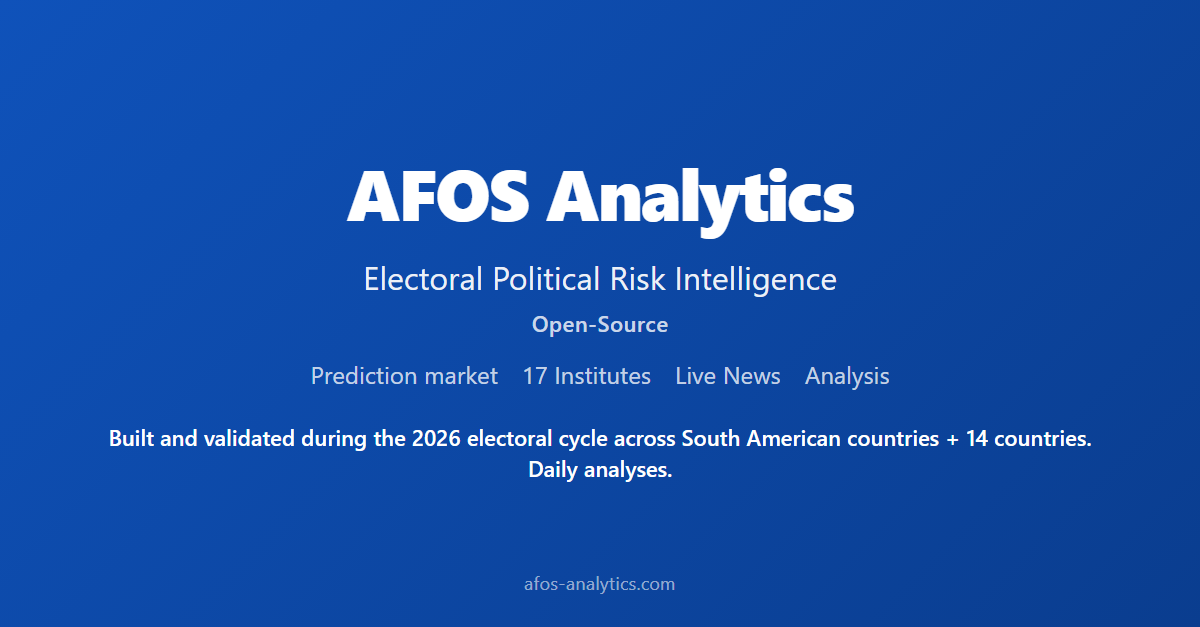
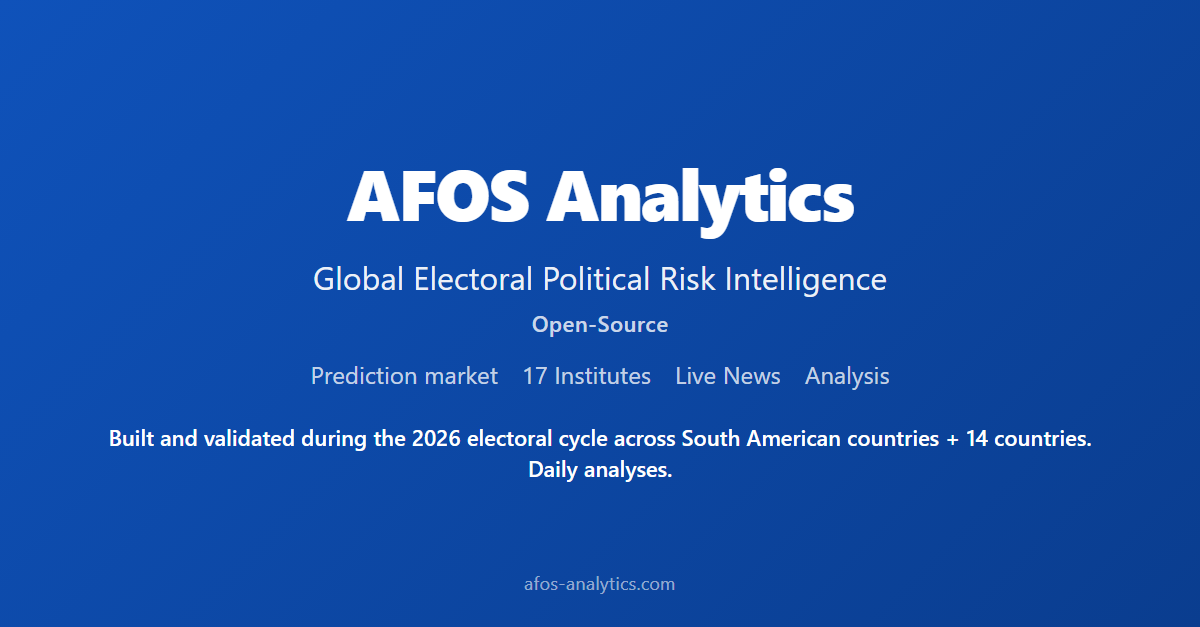
Positioning rebrand v2 — adicionar "Global" + DailyHeroCard tipografia
Tagline canônica atualizada em 17 arquivos:
- PT-BR: Inteligência de Risco Político Eleitoral Global — Open-Source
- EN: Global Electoral Political Risk Intelligence — Open-Source
- ES: Inteligencia Global de Riesgo Político Electoral — Open-Source

Arquivos: app/layout.tsx, app/page.tsx, app/[locale]/about/page.tsx,
app/[locale]/dashboard/layout.tsx, app/api/og/route.tsx, app/llms.txt/route.ts,
lib/seo/schema.ts, messages/{en,pt-BR,es}/{seo,common}.json,
app/error.tsx, app/not-found.tsx, app/welcome/WelcomeClient.tsx,
scripts/generate-linkedin-og.mjs.

LandingPageDual.tsx (hero hardcoded, fora do messages/) também atualizado
com "Global" nos 3 locales — caso descoberto após preview inicial que não
mostrava mudança no header da landing porque LandingPageDual mantém content
próprio fora das traduções.

LinkedIn OG PNGs regenerados (3 idiomas).

DailyHeroCard.tsx:
- Eyebrow "AFOS Daily" e data "DD de MÊS" agora mesmo tamanho (text-base md:text-lg)
- Eyebrow ganha font-extrabold pra peso visual igual ao da data
- Tracking ajustado de [0.18em] → [0.12em] (melhor legibilidade em tamanho maior)

Changed region(s): [[0.2467, 0.4242, 0.74, 0.4848]]

diff --git a/app/[locale]/about/page.tsx b/app/[locale]/about/page.tsx
@@ -11,8 +11,8 @@ interface Props { params: Promise<{ locale: string }> }
 
 const CONTENT = {
   'pt-BR': {
-    title: 'Sobre o AFOS Analytics | Inteligência de Risco Político Eleitoral — Open-Source',
-    description: 'AFOS Analytics: plataforma open-source de inteligência de risco político eleitoral, cruzando mercados de previsão, pesquisas e notícias. Construída e validada no ciclo eleitoral 2026.',
+    title: 'Sobre o AFOS Analytics | Inteligência de Risco Político Eleitoral Global — Open-Source',
+    description: 'AFOS Analytics: plataforma open-source de inteligência de risco político eleitoral global, cruzando mercados de previsão, pesquisas e notícias. Construída e validada no ciclo eleitoral 2026.',
     h1: 'Sobre o AFOS Analytics',
     sections: [
       ['O que é', 'AFOS Analytics é uma plataforma open-source de inteligência eleitoral em tempo real. Cruza três fontes públicas auditáveis: mercados de previsão (Polymarket), pesquisas de 17+ institutos brasileiros (TSE) e cobertura jornalística. O código é distribuído sob Apache 2.0; o conteúdo editorial sob CC BY 4.0.'],
@@ -24,8 +24,8 @@ const CONTENT = {
     ],
   },
   en: {
-    title: 'About AFOS Analytics | Electoral Political Risk Intelligence — Open-Source',
-    description: 'AFOS Analytics: open-source electoral political risk intelligence platform cross-referencing prediction markets, polls and news. Built and validated during the 2026 electoral cycle.',
+    title: 'About AFOS Analytics | Global Electoral Political Risk Intelligence — Open-Source',
+    description: 'AFOS Analytics: open-source global electoral political risk intelligence platform cross-referencing prediction markets, polls and news. Built and validated during the 2026 electoral cycle.',
     h1: 'About AFOS Analytics',
     sections: [
       ['What it is', 'AFOS Analytics is an open-source electoral intelligence platform in real time. Cross-references three auditable public sources: prediction markets (Polymarket), polls from 17+ Brazilian institutes (TSE) and journalistic coverage. Code distributed under Apache 2.0; editorial content under CC BY 4.0.'],
@@ -37,8 +37,8 @@ const CONTENT = {
     ],
   },
   es: {
-    title: 'Sobre AFOS Analytics | Inteligencia de Riesgo Político Electoral — Open-Source',
-    description: 'AFOS Analytics: plataforma open-source de inteligencia de riesgo político electoral cruzando mercados de predicción, encuestas y noticias. Construida y validada durante el ciclo electoral 2026.',
+    title: 'Sobre AFOS Analytics | Inteligencia Global de Riesgo Político Electoral — Open-Source',
+    description: 'AFOS Analytics: plataforma open-source de inteligencia global de riesgo político electoral cruzando mercados de predicción, encuestas y noticias. Construida y validada durante el ciclo electoral 2026.',
     h1: 'Sobre AFOS Analytics',
     sections: [
       ['Qué es', 'AFOS Analytics es una plataforma open-source de inteligencia electoral en tiempo real. Cruza tres fuentes públicas auditables: mercados de predicción (Polymarket), encuestas de 17+ institutos brasileños (TSE) y cobertura periodística. El código se distribuye bajo Apache 2.0; el contenido editorial bajo CC BY 4.0.'],

diff --git a/app/layout.tsx b/app/layout.tsx
@@ -21,15 +21,15 @@ export const viewport: Viewport = {
 
 export const metadata: Metadata = {
   metadataBase: new URL('https://www.afos-analytics.com'),
-  title: "AFOS Analytics — Inteligência de Risco Político Eleitoral — Open-Source",
-  description: "Inteligência de risco político eleitoral em tempo real: cruzamento entre Polymarket, +17 institutos brasileiros e cobertura jornalística. Open-source, fontes públicas auditáveis. Brasil 2026 e 14 países.",
+  title: "AFOS Analytics — Inteligência de Risco Político Eleitoral Global — Open-Source",
+  description: "Inteligência de risco político eleitoral global em tempo real: cruzamento entre Polymarket, +17 institutos brasileiros e cobertura jornalística. Open-source, fontes públicas auditáveis. Brasil 2026 e 14 países.",
   // Canonical/alternates removidos do root layout para evitar que TODAS as
   // rotas (PT-BR/EN/ES) declarem canonical=PT-BR (Google trataria EN/ES como
   // duplicatas). buildMetadata() em [locale]/layout aplica canonical correto
   // por locale via PAGE_SEO + alternates.languages cruzado.
   openGraph: {
-    title: "AFOS Analytics — Inteligência de Risco Político Eleitoral — Open-Source",
-    description: "Inteligência de risco político eleitoral em tempo real: Polymarket, pesquisas e cobertura jornalística cruzados. Brasil 2026 e 14 países.",
+    title: "AFOS Analytics — Inteligência de Risco Político Eleitoral Global — Open-Source",
+    description: "Inteligência de risco político eleitoral global em tempo real: Polymarket, pesquisas e cobertura jornalística cruzados. Brasil 2026 e 14 países.",
     url: "https://www.afos-analytics.com",
     siteName: "AFOS Analytics",
     locale: "pt_BR",
@@ -39,14 +39,14 @@ export const metadata: Metadata = {
         url: '/api/og?locale=pt-BR',
         width: 1200,
         height: 630,
-        alt: 'AFOS Analytics — Inteligência de Risco Político Eleitoral — Open-Source',
+        alt: 'AFOS Analytics — Inteligência de Risco Político Eleitoral Global — Open-Source',
       },
     ],
   },
   twitter: {
     card: "summary_large_image",
-    title: "AFOS Analytics — Inteligência de Risco Político Eleitoral — Open-Source",
-    description: "Inteligência de risco político eleitoral: Polymarket, 17 institutos e notícias cruzados em tempo real. Open-source. Brasil 2026 e 14 países.",
+    title: "AFOS Analytics — Inteligência de Risco Político Eleitoral Global — Open-Source",
+    description: "Inteligência de risco político eleitoral global: Polymarket, 17 institutos e notícias cruzados em tempo real. Open-source. Brasil 2026 e 14 países.",
     images: ['/api/og?locale=pt-BR'],
   },
   robots: {

diff --git a/app/page.tsx b/app/page.tsx
@@ -9,8 +9,8 @@ import { redirect } from 'next/navigation';
 // The blue post-signup screen lives at /welcome (not here).
 
 export const metadata: Metadata = {
-  title: 'AFOS Analytics — Electoral Political Risk Intelligence — Open-Source',
-  description: 'Real-time electoral political risk intelligence: cross-reference of prediction markets (Polymarket), polls from 17+ Brazilian institutes (TSE), and live news. Open-source, auditable. Brazil 2026 + 14 countries.',
+  title: 'AFOS Analytics — Global Electoral Political Risk Intelligence — Open-Source',
+  description: 'Real-time global electoral political risk intelligence: cross-reference of prediction markets (Polymarket), polls from 17+ Brazilian institutes (TSE), and live news. Open-source, auditable. Brazil 2026 + 14 countries.',
   alternates: {
     canonical: 'https://afos-analytics.com/en',
     languages: {
@@ -24,18 +24,18 @@ export const metadata: Metadata = {
   // but explicit noindex on this transitional page is belt-and-suspenders.
   robots: { index: false, follow: true },
   openGraph: {
-    title: 'AFOS Analytics — Electoral Political Risk Intelligence — Open-Source',
-    description: 'Electoral political risk intelligence: Polymarket × 17 polling institutes × live news, cross-referenced in real time. Brazil 2026 + 14 countries.',
+    title: 'AFOS Analytics — Global Electoral Political Risk Intelligence — Open-Source',
+    description: 'Global electoral political risk intelligence: Polymarket × 17 polling institutes × live news, cross-referenced in real time. Brazil 2026 + 14 countries.',
     url: 'https://afos-analytics.com',
     siteName: 'AFOS Analytics',
     locale: 'en_US',
     type: 'website',
-    images: [{ url: '/api/og?locale=en', width: 1200, height: 630, alt: 'AFOS Analytics — Electoral Political Risk Intelligence — Open-Source' }],
+    images: [{ url: '/api/og?locale=en', width: 1200, height: 630, alt: 'AFOS Analytics — Global Electoral Political Risk Intelligence — Open-Source' }],
   },
   twitter: {
     card: 'summary_large_image',
-    title: 'AFOS Analytics — Electoral Political Risk Intelligence — Open-Source',
-    description: 'Electoral political risk intelligence: Polymarket × 17 polling institutes × live news, cross-referenced in real time. Brazil 2026 + 14 countries.',
+    title: 'AFOS Analytics — Global Electoral Political Risk Intelligence — Open-Source',
+    description: 'Global electoral political risk intelligence: Polymarket × 17 polling institutes × live news, cross-referenced in real time. Brazil 2026 + 14 countries.',
     images: ['/api/og?locale=en'],
   },
 };

diff --git a/lib/seo/schema.ts b/lib/seo/schema.ts
@@ -24,7 +24,7 @@ export function organizationSchema() {
       width: 512,
       height: 512,
     },
-    description: 'Electoral Political Risk Intelligence — Open-Source. Cross-references Polymarket, 17+ polls, and live news. Brazil 2026 + 14 countries.',
+    description: 'Global Electoral Political Risk Intelligence — Open-Source. Cross-references Polymarket, 17+ polls, and live news. Brazil 2026 + 14 countries.',
     foundingDate: '2026',
     knowsAbout: [
       'Election prediction',
@@ -56,10 +56,10 @@ export function websiteSchema(locale: Locale) {
     url: `${BASE_URL}/${locale}`,
     inLanguage: locale === 'es' ? 'es' : locale === 'en' ? 'en' : 'pt-BR',
     description: locale === 'en'
-      ? 'Electoral Political Risk Intelligence — Open-Source'
+      ? 'Global Electoral Political Risk Intelligence — Open-Source'
       : locale === 'es'
-        ? 'Inteligencia de Riesgo Político Electoral — Open-Source'
-        : 'Inteligência de Risco Político Eleitoral — Open-Source',
+        ? 'Inteligencia Global de Riesgo Político Electoral — Open-Source'
+        : 'Inteligência de Risco Político Eleitoral Global — Open-Source',
   };
 }
 
@@ -136,7 +136,7 @@ export function datasetSchema() {
     '@context': 'https://schema.org',
     '@type': 'Dataset',
     name: 'AFOS Analytics Election Data',
-    description: 'Electoral political risk intelligence dataset: real-time Polymarket odds, polls from 17+ institutes, and news cross-references across 14+ countries.',
+    description: 'Global electoral political risk intelligence dataset: real-time Polymarket odds, polls from 17+ institutes, and news cross-references across 14+ countries.',
     url: BASE_URL,
     license: 'https://opensource.org/licenses/MIT',
     creator: { '@type': 'Organization', name: 'AFOS Analytics' },

diff --git a/app/components/LandingPageDual.tsx b/app/components/LandingPageDual.tsx
@@ -22,8 +22,8 @@ const CONTENT = {
     nav: { dashboard: 'Dashboard', about: 'Sobre', github: 'GitHub' },
     hero: {
       badge: 'Eleições 2026 · 14 Países Monitorados',
-      title: 'Inteligência de',
-      titleHighlight: 'Risco Político Eleitoral',
+      title: 'Inteligência de Risco',
+      titleHighlight: 'Político Eleitoral Global',
       claim: 'Cruzamento em tempo real entre mercados de previsão, pesquisas eleitorais e notícias. Código aberto, fontes públicas auditáveis.',
       subtitle: 'Construído e validado durante o ciclo eleitoral 2026 em países na América do Sul. Análises diárias.',
       cta: 'Acessar Dashboard',
@@ -67,7 +67,7 @@ const CONTENT = {
     nav: { dashboard: 'Dashboard', about: 'About', github: 'GitHub' },
     hero: {
       badge: 'Elections 2026 · 14 Countries Monitored',
-      title: 'Political Election',
+      title: 'Global Electoral Political',
       titleHighlight: 'Risk Intelligence',
       claim: 'Real-time cross-referencing of prediction markets, electoral polls and news. Open-source, auditable public sources.',
       subtitle: 'Built and battle-tested during the 2026 election cycle in South American countries. Daily analysis.',
@@ -112,7 +112,7 @@ const CONTENT = {
     nav: { dashboard: 'Dashboard', about: 'Acerca de', github: 'GitHub' },
     hero: {
       badge: 'Elecciones 2026 · 14 Países Monitoreados',
-      title: 'Inteligencia de',
+      title: 'Inteligencia Global de',
       titleHighlight: 'Riesgo Político Electoral',
       claim: 'Cruce en tiempo real entre mercados de predicción, encuestas electorales y noticias. Código abierto, fuentes públicas auditables.',
       subtitle: 'Construido y validado durante el ciclo electoral 2026 en países de América del Sur. Análisis diario.',

diff --git a/app/[locale]/dashboard/layout.tsx b/app/[locale]/dashboard/layout.tsx
@@ -4,7 +4,7 @@ import type { Locale } from '../../../lib/i18n/config';
 
 const SEO: Record<Locale, { title: string; description: string }> = {
   'pt-BR': {
-    title: 'Dashboard — AFOS Analytics | Inteligência de Risco Político Eleitoral',
+    title: 'Dashboard — AFOS Analytics | Inteligência de Risco Político Eleitoral Global',
     description: 'Dashboard interativo: cruzamento de mercados de previsão (Polymarket) com pesquisas eleitorais de 17+ institutos, notícias ao vivo e análises estratégicas. Eleições Brasil 2026 e cobertura de 14 países.',
   },
   en: {
@@ -12,7 +12,7 @@ const SEO: Record<Locale, { title: string; description: string }> = {
     description: 'Interactive dashboard: crossing prediction markets (Polymarket) with electoral polls from 17+ institutes, live news and strategic analysis. Brazil 2026 elections and 14-country coverage.',
   },
   es: {
-    title: 'Dashboard — AFOS Analytics | Inteligencia de Riesgo Político Electoral',
+    title: 'Dashboard — AFOS Analytics | Inteligencia Global de Riesgo Político Electoral',
     description: 'Dashboard interactivo: cruce de mercados de predicción (Polymarket) con encuestas electorales de 17+ institutos, noticias en vivo y análisis estratégicos. Elecciones Brasil 2026 y cobertura de 14 países.',
   },
 };

diff --git a/app/api/og/route.tsx b/app/api/og/route.tsx
@@ -10,19 +10,19 @@ const STATIC_FALLBACK_URL = 'https://afos-analytics.com/brand/og-en-linkedin-120
 
 const COPY = {
   'pt-BR': {
-    subtitle: 'Inteligência de Risco Político Eleitoral',
+    subtitle: 'Inteligência de Risco Político Eleitoral Global',
     openSource: 'Open-Source',
     chips: ['Mercado de previsão', '17 Institutos', 'Notícias ao Vivo', 'Análises'],
     footer: 'Construído e validado durante o ciclo eleitoral 2026 em países na América do Sul + 14 países. Análises diárias.',
   },
   en: {
-    subtitle: 'Electoral Political Risk Intelligence',
+    subtitle: 'Global Electoral Political Risk Intelligence',
     openSource: 'Open-Source',
     chips: ['Prediction market', '17 Institutes', 'Live News', 'Analysis'],
     footer: 'Built and validated during the 2026 electoral cycle across South American countries + 14 countries. Daily analyses.',
   },
   es: {
-    subtitle: 'Inteligencia de Riesgo Político Electoral',
+    subtitle: 'Inteligencia Global de Riesgo Político Electoral',
     openSource: 'Open-Source',
     chips: ['Mercado de predicción', '17 Institutos', 'Noticias en Vivo', 'Análisis'],
     footer: 'Construido y validado durante el ciclo electoral 2026 en países de América del Sur + 14 países. Análisis diarios.',

diff --git a/app/components/DailyHeroCard.tsx b/app/components/DailyHeroCard.tsx
@@ -91,7 +91,7 @@ export function DailyHeroCard() {
         className="block bg-blue-50 hover:bg-blue-100 border border-blue-200 rounded-xl p-4 md:p-5 transition-colors group"
       >
         <div className="flex flex-wrap items-baseline gap-x-3 gap-y-1 mb-2">
-          <span className="text-xs font-extrabold text-primary uppercase tracking-[0.18em]">{t.eyebrow}</span>
+          <span className="text-base md:text-lg font-extrabold text-primary uppercase tracking-[0.12em]">{t.eyebrow}</span>
           <span className="text-base md:text-lg font-bold text-dark">{dateShort}</span>
           {meta.updatedAt && (
             <span className="text-xs text-gray-500 ml-auto">{t.updatedAt} {meta.updatedAt}</span>

diff --git a/app/llms.txt/route.ts b/app/llms.txt/route.ts
@@ -39,7 +39,7 @@ export function GET() {
 
   const content = `# AFOS Analytics
 
-> Electoral Political Risk Intelligence — Open-Source. Global platform that cross-references prediction markets, electoral polls, and real-time news across 14+ countries. Open source (Apache 2.0), free, and without mandatory registration.
+> Global Electoral Political Risk Intelligence — Open-Source. Global platform that cross-references prediction markets, electoral polls, and real-time news across 14+ countries. Open source (Apache 2.0), free, and without mandatory registration.
 
 AFOS Analytics combines three independent data sources in real time to provide unbiased electoral political risk analysis:
 

diff --git a/app/welcome/WelcomeClient.tsx b/app/welcome/WelcomeClient.tsx
@@ -66,7 +66,7 @@ export default function WelcomeClient({ email }: Props) {
           AFOS Analytics
         </h1>
         <p style={{ color: 'rgba(255,255,255,0.95)', fontSize: '1.125rem', margin: '0 0 0.35rem', lineHeight: 1.5, fontWeight: 500 }}>
-          Electoral Political Risk Intelligence
+          Global Electoral Political Risk Intelligence
         </p>
         <p style={{ color: 'rgba(255,255,255,0.75)', fontSize: '0.95rem', margin: '0 0 3rem', lineHeight: 1.4, fontWeight: 400, letterSpacing: '0.02em' }}>
           Open-Source

diff --git a/app/error.tsx b/app/error.tsx
@@ -46,7 +46,7 @@ export default function GlobalError({
           </Link>
         </div>
         <p className="text-xs text-gray-400 mt-12">
-          AFOS Analytics — Inteligência de Risco Político Eleitoral — Open-Source
+          AFOS Analytics — Inteligência de Risco Político Eleitoral Global — Open-Source
         </p>
       </div>
     </main>

diff --git a/app/not-found.tsx b/app/not-found.tsx
@@ -34,7 +34,7 @@ export default function NotFound() {
           </Link>
         </div>
         <p className="text-xs text-gray-400 mt-12">
-          AFOS Analytics — Inteligência de Risco Político Eleitoral — Open-Source
+          AFOS Analytics — Inteligência de Risco Político Eleitoral Global — Open-Source
         </p>
       </div>
     </main>
